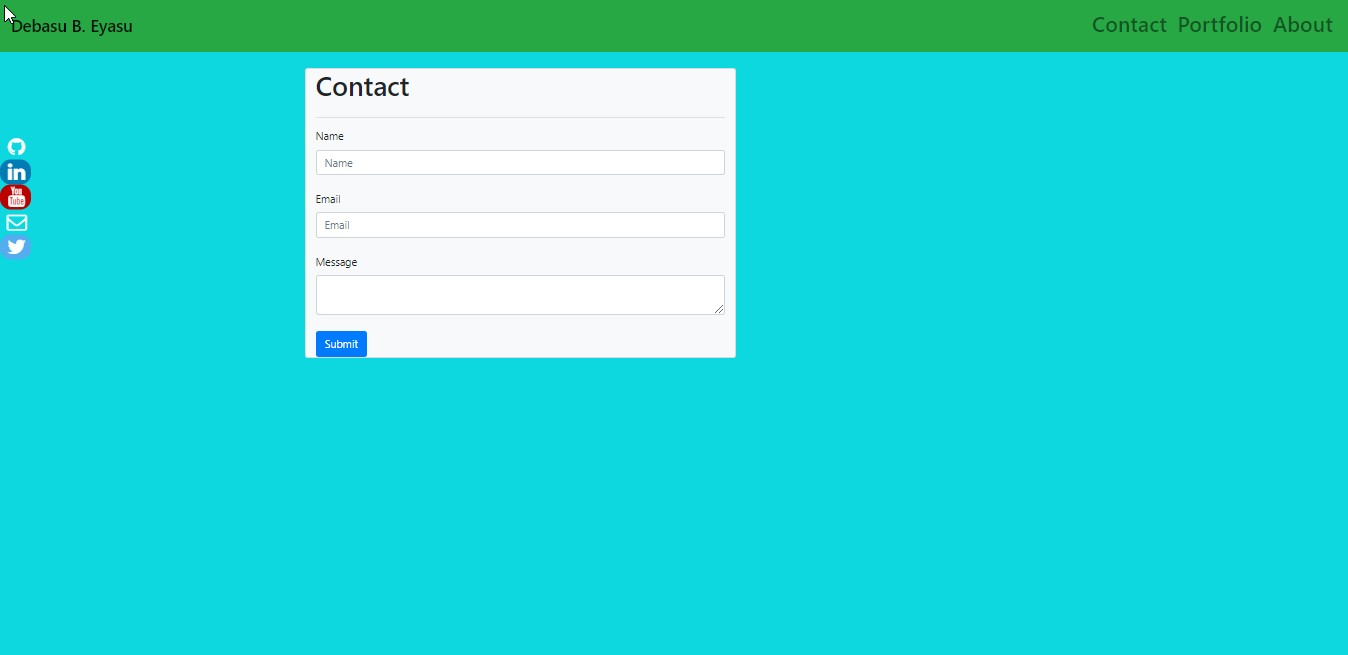
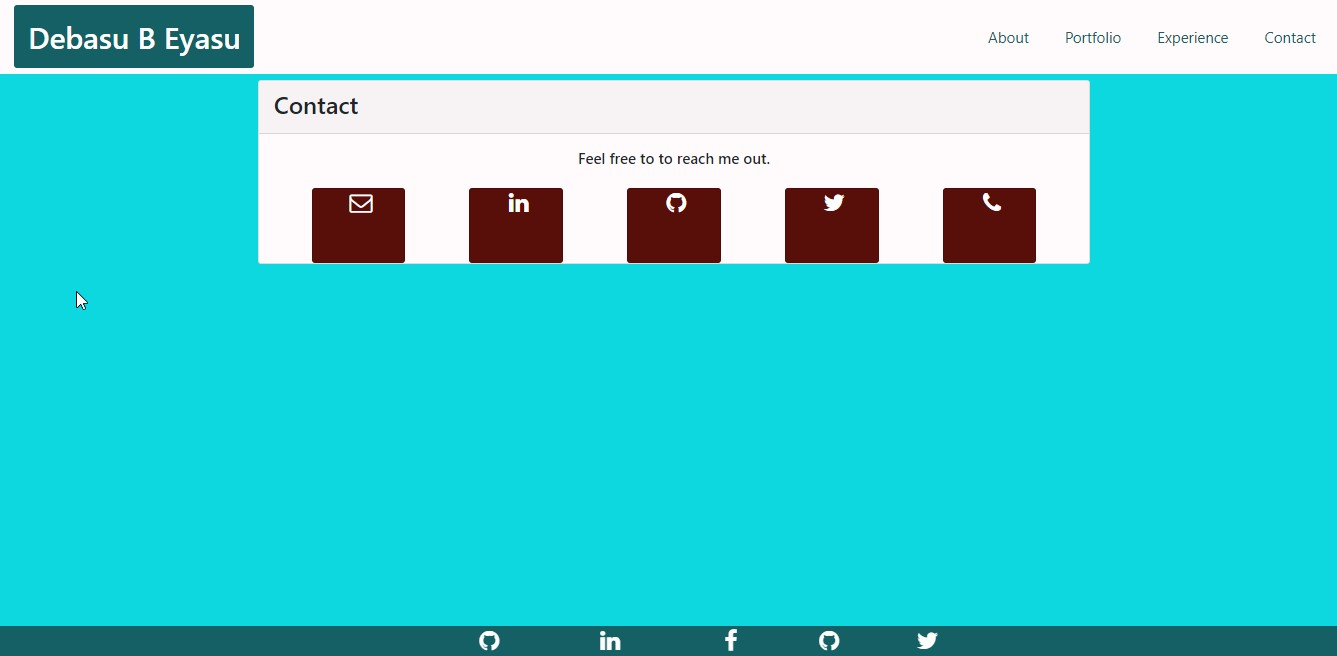
Readme file developed and screen shots included.

diff --git a/README.md b/README.md
@@ -1,70 +1,49 @@
-# Getting Started with Create React App
+[![License: MIT](https://img.shields.io/badge/License-MIT-yellow.svg)](https://opensource.org/licenses/MIT)
 
-This project was bootstrapped with [Create React App](https://github.com/facebook/create-react-app).
+# My-Portfolio with React
 
-## Available Scripts
+## Table of Content
+- [Description](#description)
+- [Motivation](#motivation)
+- [Guidelines](#guidelines)
+- [Acknowledgement](#acknowledgement)
+- [Question](#question)
 
-In the project directory, you can run:
+## Description 
 
-### `npm start`
+I developed a static personal website by using React.js. It has my portfolio, about me, Experiance and contact information. 
+It will let my information to be avialabe online. 
 
-Runs the app in the development mode.\
-Open [http://localhost:3000](http://localhost:3000) to view it in the browser.
+![Portfolio Page](./src/assets/img/Portfolio.jpg)
 
-The page will reload if you make edits.\
-You will also see any lint errors in the console.
+## Motivation 
 
-### `npm test`
+Now a days degitalization is step up dinamically. In this situation it is better to have a degitalized informaion to be eaily reachable by using the new technologies like React.js.
 
-Launches the test runner in the interactive watch mode.\
-See the section about [running tests](https://facebook.github.io/create-react-app/docs/running-tests) for more information.
+![Experiance Page](./src/assets/img/Experiance.jpg)
 
-### `npm run build`
+## Guidelines: 
 
-Builds the app for production to the `build` folder.\
-It correctly bundles React in production mode and optimizes the build for the best performance.
+Go ahead and see my website!
 
-The build is minified and the filenames include the hashes.\
-Your app is ready to be deployed!
+![Portfolio Page](./src/assets/img/About.jpg)
 
-See the section about [deployment](https://facebook.github.io/create-react-app/docs/deployment) for more information.
+https://bayleyegn100.github.io/Portfolio/
 
-### `npm run eject`
 
-**Note: this is a one-way operation. Once you `eject`, you can’t go back!**
+https://github.com/bayleyegn100/Portfolio
 
-If you aren’t satisfied with the build tool and configuration choices, you can `eject` at any time. This command will remove the single build dependency from your project.
+## Acknowledgement
 
-Instead, it will copy all the configuration files and the transitive dependencies (webpack, Babel, ESLint, etc) right into your project so you have full control over them. All of the commands except `eject` will still work, but they will point to the copied scripts so you can tweak them. At this point you’re on your own.
+My instructor, my tutor, online information providers like google, you tube and others.  
 
-You don’t have to ever use `eject`. The curated feature set is suitable for small and middle deployments, and you shouldn’t feel obligated to use this feature. However we understand that this tool wouldn’t be useful if you couldn’t customize it when you are ready for it.
+## Question
 
-## Learn More
+If you have any questions you can reach me via [E-mail] (bayleyegn100@gmail.com). 
 
-You can learn more in the [Create React App documentation](https://facebook.github.io/create-react-app/docs/getting-started).
+Here is a link to my Github profile: (http://github.com/bayleyegn100)
 
-To learn React, check out the [React documentation](https://reactjs.org/).
+![Contact Page](./src/assets/img/Contact.jpg) 
 
-### Code Splitting
 
-This section has moved here: [https://facebook.github.io/create-react-app/docs/code-splitting](https://facebook.github.io/create-react-app/docs/code-splitting)
 
-### Analyzing the Bundle Size
-
-This section has moved here: [https://facebook.github.io/create-react-app/docs/analyzing-the-bundle-size](https://facebook.github.io/create-react-app/docs/analyzing-the-bundle-size)
-
-### Making a Progressive Web App
-
-This section has moved here: [https://facebook.github.io/create-react-app/docs/making-a-progressive-web-app](https://facebook.github.io/create-react-app/docs/making-a-progressive-web-app)
-
-### Advanced Configuration
-
-This section has moved here: [https://facebook.github.io/create-react-app/docs/advanced-configuration](https://facebook.github.io/create-react-app/docs/advanced-configuration)
-
-### Deployment
-
-This section has moved here: [https://facebook.github.io/create-react-app/docs/deployment](https://facebook.github.io/create-react-app/docs/deployment)
-
-### `npm run build` fails to minify
-
-This section has moved here: [https://facebook.github.io/create-react-app/docs/troubleshooting#npm-run-build-fails-to-minify](https://facebook.github.io/create-react-app/docs/troubleshooting#npm-run-build-fails-to-minify)
